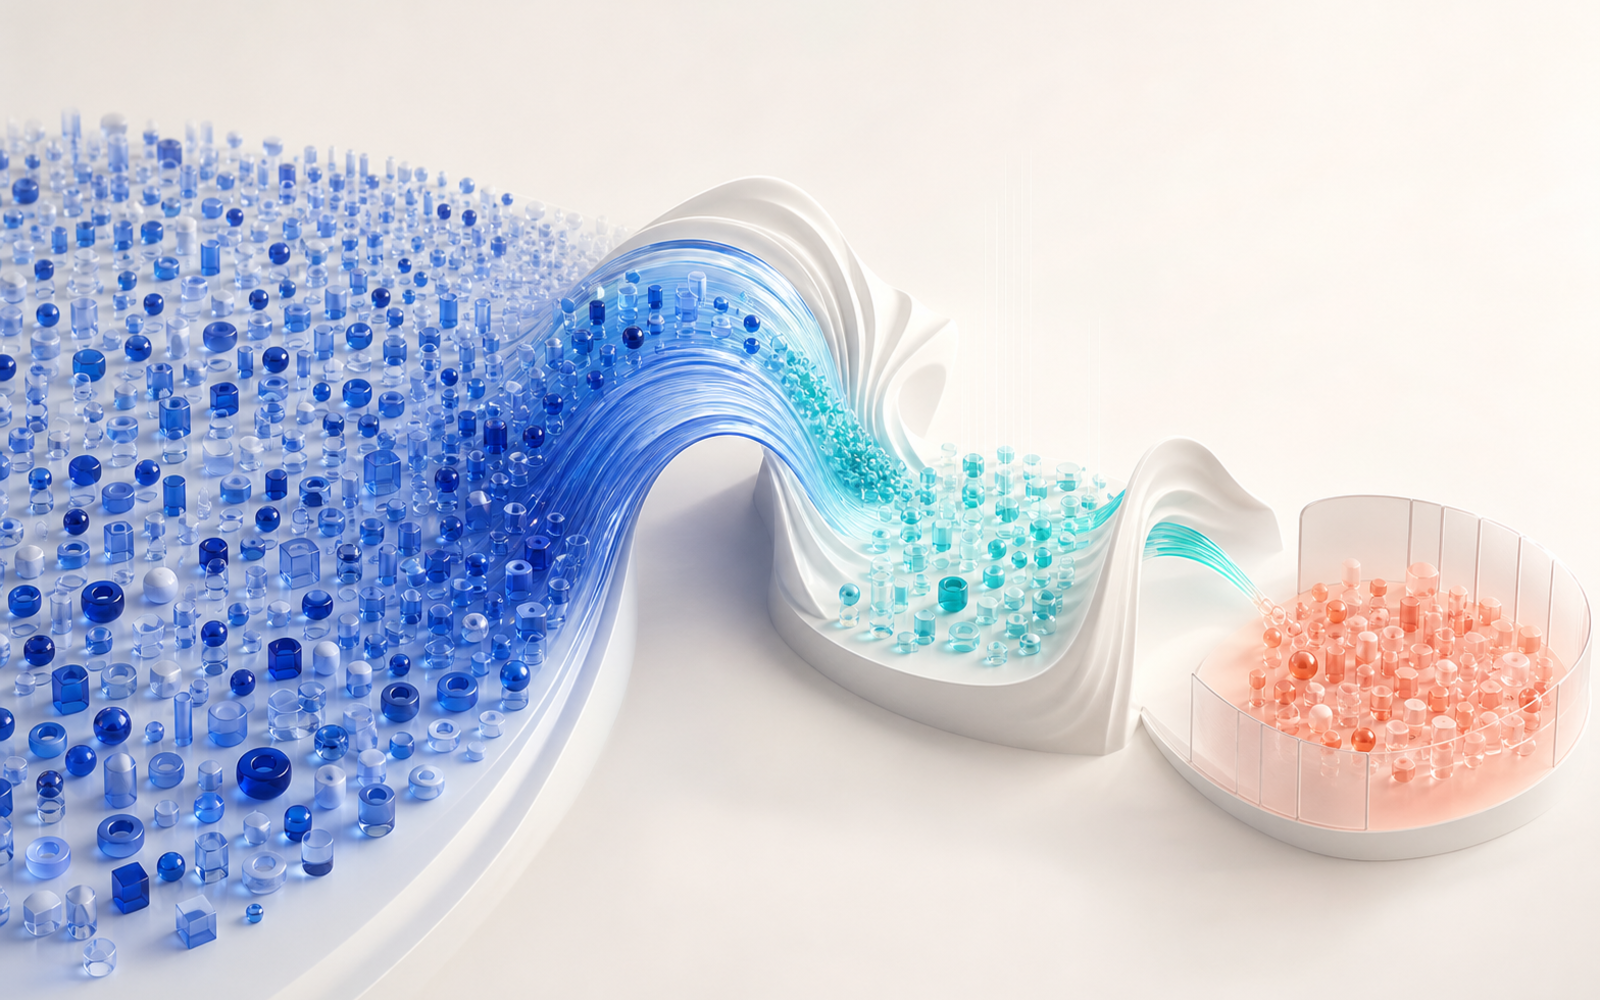
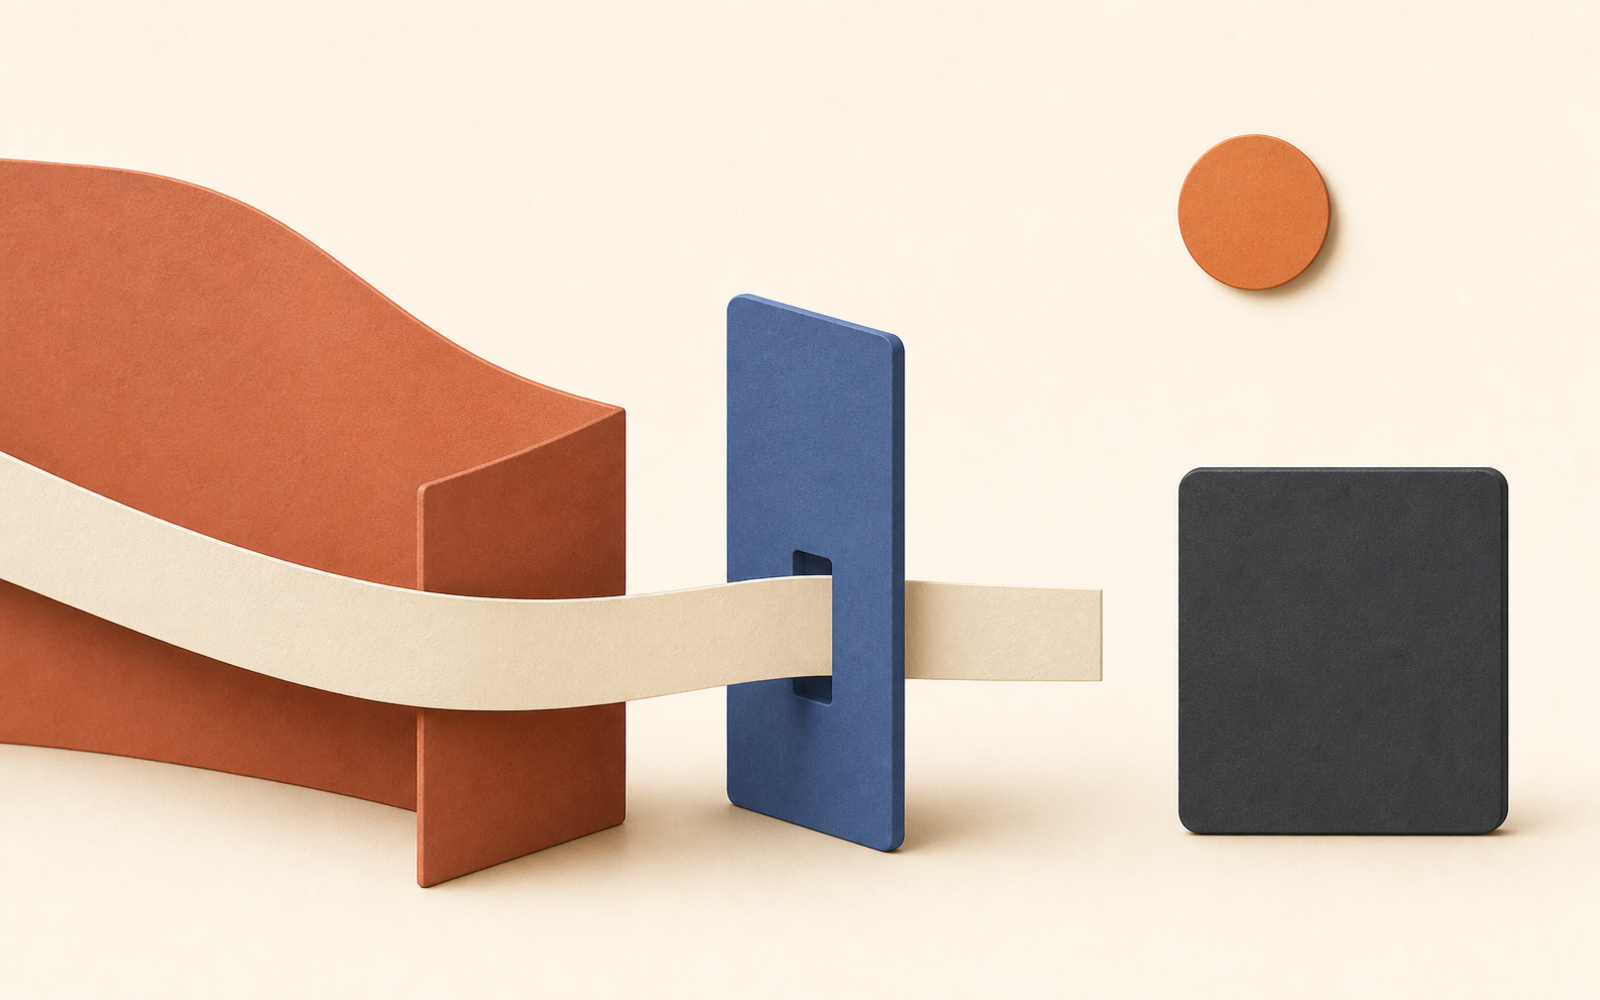
Replace granular Academy artwork

diff --git a/lib/academy-reviewed-data.ts b/lib/academy-reviewed-data.ts
@@ -231,9 +231,9 @@ In education, the perspective supports inquiry, discussion, project work, format
     level: "basics",
     tags: ["training data", "validation data", "model evaluation"],
     image: "/images/academy/covers/academy-007-training-validation-and-test-data.png",
-    imageAlt: "An educator and adult learner compare three distinct fields of blue, cyan, and coral data points in a bright university studio",
+    imageAlt: "An educator and adult learner compare three large terracotta, blue, and charcoal boards on a warm minimalist studio table",
     summaryImage: "/images/academy/summary/academy-007-training-validation-and-test-data.png",
-    summaryImageAlt: "A large blue training field flows through a cyan validation field toward a separate coral test field",
+    summaryImageAlt: "A cream ribbon passes from a broad terracotta form through a blue gate toward a separate charcoal evaluation tile",
     summaryAudio: "/audio/academy/academy-007-training-validation-and-test-data-summary.m4a",
     summaryAudioTitle: "Listen to Training, Validation, and Test Data",
     shortSummary: "Why machine-learning projects separate data for fitting, development decisions, and a final independent check of generalization.",
